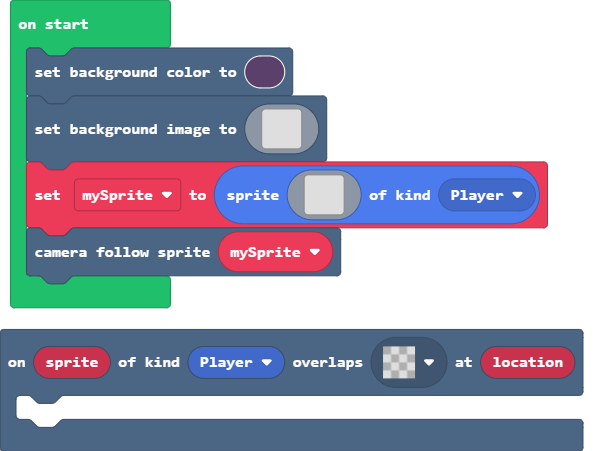
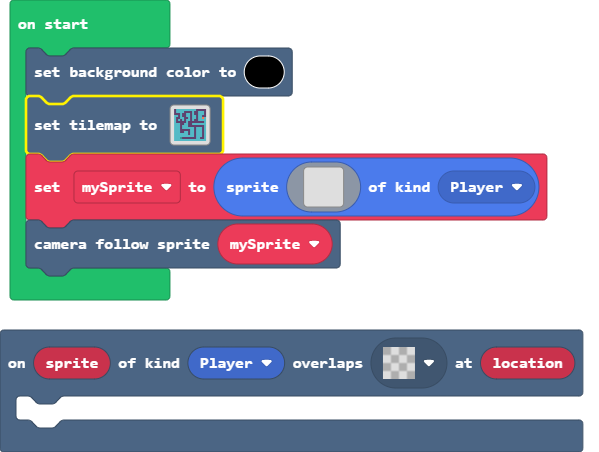
Update pxt.json, main.blocks, main.ts, tilemap.g.jres, tilemap.g.ts

diff --git a/main.ts b/main.ts
@@ -1,129 +1,8 @@
 scene.onOverlapTile(SpriteKind.Player, assets.tile`transparency16`, function (sprite, location) {
 	
 })
-scene.setBackgroundColor(12)
-scene.setBackgroundImage(img`
-    ................................................................................................................................................................
-    ................................................................................................................................................................
-    ................................................................................................................................................................
-    ................................................................................................................................................................
-    ................................................................................................................................................................
-    ................................................................................................................................................................
-    ................................................................................................................................................................
-    ................................................................................................................................................................
-    ................................................................................................................................................................
-    ................................................................................................................................................................
-    ................................................................................................................................................................
-    ................................................................................................................................................................
-    ................................................................................................................................................................
-    ................................................................................................................................................................
-    ................................................................................................................................................................
-    ................................................................................................................................................................
-    ................................................................................................................................................................
-    ................................................................................................................................................................
-    ................................................................................................................................................................
-    ................................................................................................................................................................
-    ................................................................................................................................................................
-    ................................................................................................................................................................
-    ................................................................................................................................................................
-    ................................................................................................................................................................
-    ................................................................................................................................................................
-    ................................................................................................................................................................
-    ................................................................................................................................................................
-    ................................................................................................................................................................
-    ................................................................................................................................................................
-    ................................................................................................................................................................
-    ................................................................................................................................................................
-    ................................................................................................................................................................
-    ................................................................................................................................................................
-    ................................................................................................................................................................
-    ................................................................................................................................................................
-    ................................................................................................................................................................
-    ................................................................................................................................................................
-    ................................................................................................................................................................
-    ................................................................................................................................................................
-    ................................................................................................................................................................
-    ................................................................................................................................................................
-    ................................................................................................................................................................
-    ................................................................................................................................................................
-    ................................................................................................................................................................
-    ................................................................................................................................................................
-    ................................................................................................................................................................
-    ................................................................................................................................................................
-    ................................................................................................................................................................
-    ................................................................................................................................................................
-    ................................................................................................................................................................
-    ................................................................................................................................................................
-    ................................................................................................................................................................
-    ................................................................................................................................................................
-    ................................................................................................................................................................
-    ................................................................................................................................................................
-    ................................................................................................................................................................
-    ................................................................................................................................................................
-    ................................................................................................................................................................
-    ................................................................................................................................................................
-    ................................................................................................................................................................
-    ................................................................................................................................................................
-    ................................................................................................................................................................
-    ................................................................................................................................................................
-    ................................................................................................................................................................
-    ................................................................................................................................................................
-    ................................................................................................................................................................
-    ................................................................................................................................................................
-    ................................................................................................................................................................
-    ................................................................................................................................................................
-    ................................................................................................................................................................
-    ................................................................................................................................................................
-    ................................................................................................................................................................
-    ................................................................................................................................................................
-    ................................................................................................................................................................
-    ................................................................................................................................................................
-    ................................................................................................................................................................
-    ................................................................................................................................................................
-    ................................................................................................................................................................
-    ................................................................................................................................................................
-    ................................................................................................................................................................
-    ................................................................................................................................................................
-    ................................................................................................................................................................
-    ................................................................................................................................................................
-    ................................................................................................................................................................
-    ................................................................................................................................................................
-    ................................................................................................................................................................
-    ................................................................................................................................................................
-    ................................................................................................................................................................
-    ................................................................................................................................................................
-    ................................................................................................................................................................
-    ................................................................................................................................................................
-    ................................................................................................................................................................
-    ................................................................................................................................................................
-    ................................................................................................................................................................
-    ................................................................................................................................................................
-    ................................................................................................................................................................
-    ................................................................................................................................................................
-    ................................................................................................................................................................
-    ................................................................................................................................................................
-    ................................................................................................................................................................
-    ................................................................................................................................................................
-    ................................................................................................................................................................
-    ................................................................................................................................................................
-    ................................................................................................................................................................
-    ................................................................................................................................................................
-    ................................................................................................................................................................
-    ................................................................................................................................................................
-    ................................................................................................................................................................
-    ................................................................................................................................................................
-    ................................................................................................................................................................
-    ................................................................................................................................................................
-    ................................................................................................................................................................
-    ................................................................................................................................................................
-    ................................................................................................................................................................
-    ................................................................................................................................................................
-    ................................................................................................................................................................
-    ................................................................................................................................................................
-    ................................................................................................................................................................
-    ................................................................................................................................................................
-    ................................................................................................................................................................
-    `)
+scene.setBackgroundColor(15)
+tiles.setTilemap(tilemap`level1`)
 let mySprite = sprites.create(img`
     . . . . . . . . . . . . . . . . 
     . . . . . . . . . . . . . . . . 

diff --git a/tilemap.g.ts b/tilemap.g.ts
@@ -1,0 +1,39 @@
+// Auto-generated code. Do not edit.
+namespace myTiles {
+    //% fixedInstance jres blockIdentity=images._tile
+    export const transparency16 = image.ofBuffer(hex``);
+
+    helpers._registerFactory("tilemap", function(name: string) {
+        switch(helpers.stringTrim(name)) {
+            case "level1":
+            case "level1":return tiles.createTilemap(hex`1000100001020202020202020202020101010101010202020201010101020101020202010101010201010202010201010202020102020102010102020102020102020101020101020201010201020201020204020201020102010202010201010202020202010101010102010101010101010102020202010102020101020202020202020202020102020201010101010101010202020201020202020202010202020102020202010101010102020102020201020202020101020201020201020202010202020202020202010202010202020102020202020202020202020102020201020202020301010101010101020201010202020202020202020202020202020202`, img`
+. . . . . . . . . . . . . . . . 
+. . . . . . . . . . . . . . . . 
+. . . . . . . . . . . . . . . . 
+. . . . . . . . . . . . . . . . 
+. . . . . . . . . . . . . . . . 
+. . . . . . . . . . . . . . . . 
+. . . . . . . . . . . . . . . . 
+. . . . . . . . . . . . . . . . 
+. . . . . . . . . . . . . . . . 
+. . . . . . . . . . . . . . . . 
+. . . . . . . . . . . . . . . . 
+. . . . . . . . . . . . . . . . 
+. . . . . . . . . . . . . . . . 
+. . . . . . . . . . . . . . . . 
+. . . . . . . . . . . . . . . . 
+. . . . . . . . . . . . . . . . 
+`, [myTiles.transparency16,sprites.dungeon.darkGroundCenter,sprites.dungeon.collectibleInsignia,sprites.dungeon.collectibleBlueCrystal,sprites.dungeon.collectibleRedCrystal], TileScale.Sixteen);
+        }
+        return null;
+    })
+
+    helpers._registerFactory("tile", function(name: string) {
+        switch(helpers.stringTrim(name)) {
+            case "transparency16":return transparency16;
+        }
+        return null;
+    })
+
+}
+// Auto-generated code. Do not edit.
